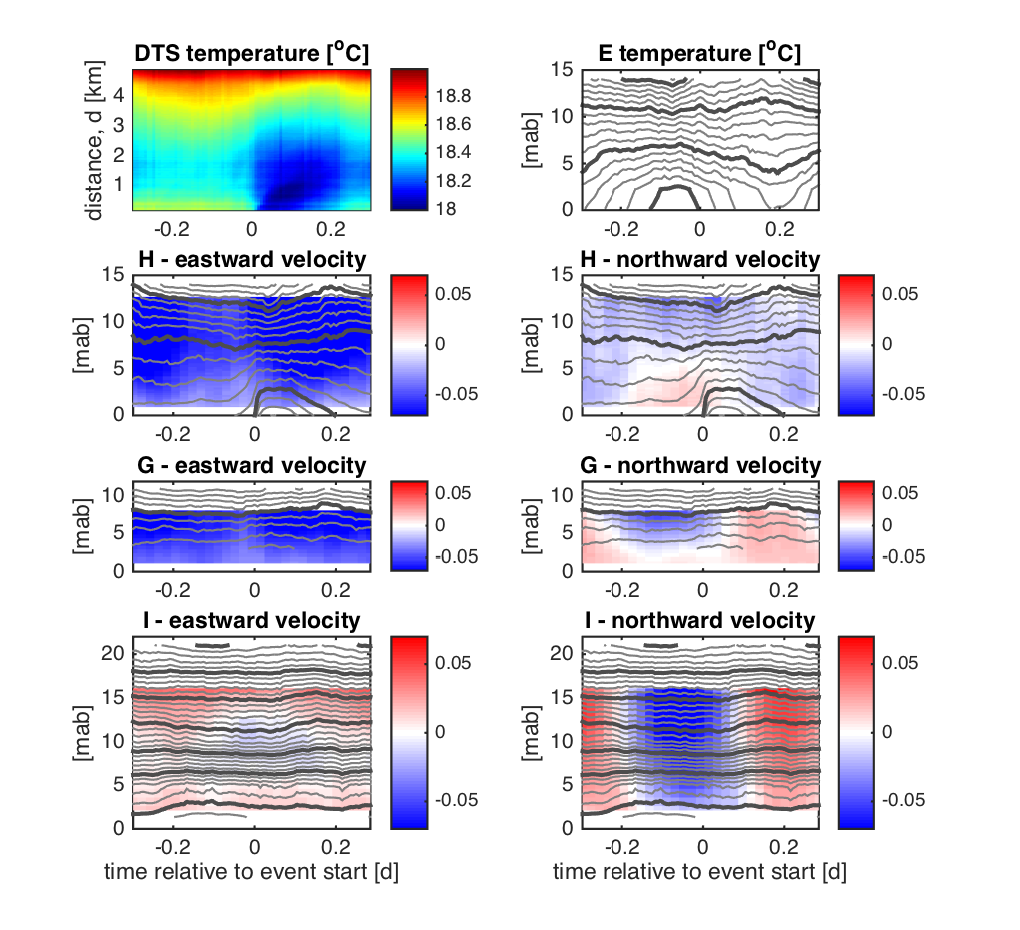
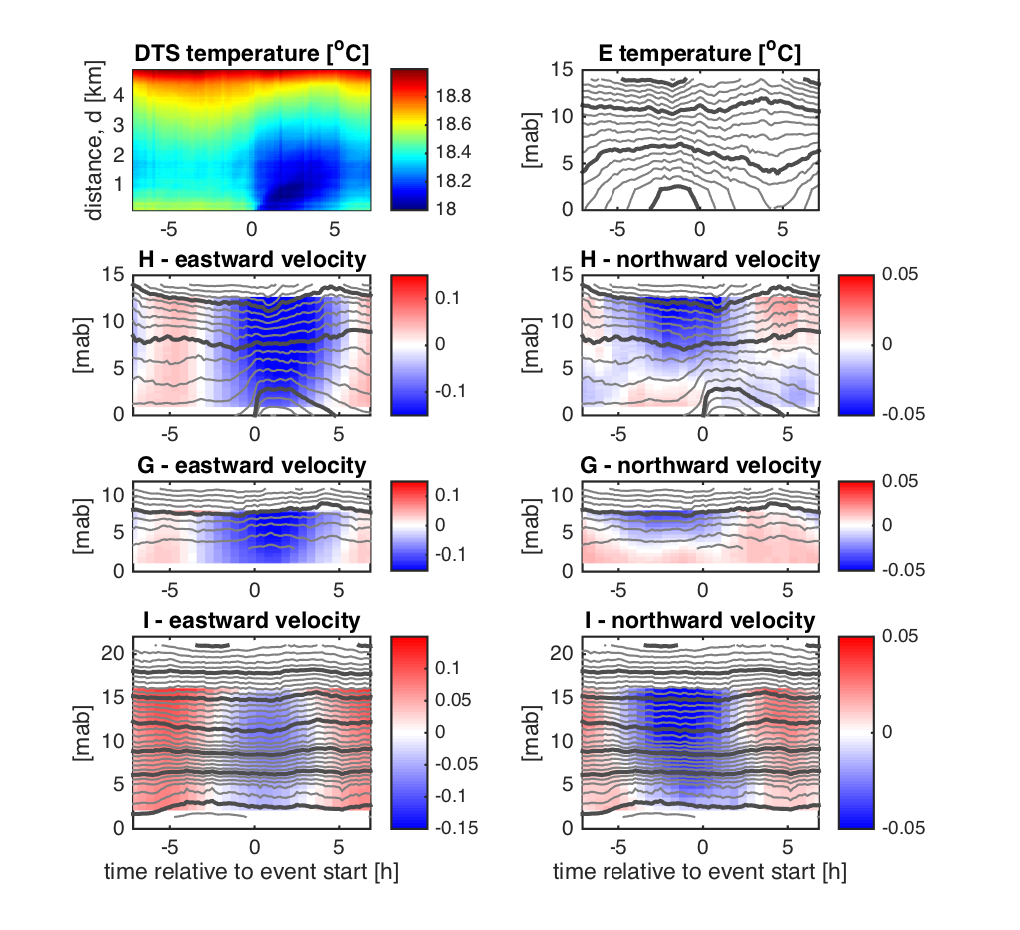
using full velocity with tides in H composite

diff --git a/analysis/dts_isle_plot_events_h_composite_paper.m b/analysis/dts_isle_plot_events_h_composite_paper.m
@@ -105,7 +105,7 @@ set(gcf, 'PaperSize', [7.0 7.0]);
 set(gcf, 'PaperPosition', [0 0 6.8 6.2])
 
 ax1 = subplot(15,2,[1:2:5])
-pcolor(datetime_events,distance/1000,squeeze(nanmean(tdts_events,3))')
+pcolor(datetime_events*24,distance/1000,squeeze(nanmean(tdts_events,3))')
 shading flat
 colormap(ax1,jet)
 colorbar
@@ -113,9 +113,9 @@ title('DTS temperature [^oC]')
 ylabel('distance, d [km]')
 
 subplot(15,2,[2:2:6])
-contour(datetime_events,15-zsE_isle,squeeze(nanmean(te_events,3))',[0:.1:100],'color',[0.5 0.5 0.5])
+contour(datetime_events*24,15-zsE_isle,squeeze(nanmean(te_events,3))',[0:.1:100],'color',[0.5 0.5 0.5])
 hold on
-contour(datetime_events,15-zsE_isle,squeeze(nanmean(te_events,3))',[0:.5:100],'color',[0.3 0.3 0.3],'linewidth',2)
+contour(datetime_events*24,15-zsE_isle,squeeze(nanmean(te_events,3))',[0:.5:100],'color',[0.3 0.3 0.3],'linewidth',2)
 title('E temperature [^oC]')
 cbar = colorbar;
 set(cbar,'visible','off')
@@ -124,44 +124,44 @@ ylim([0,15])
 
 
 subplot(15,2,[9:2:13])
-pcolorjw(ttime_events,H.zz,squeeze(nanmean(real(wh_detide_events(:,:,hidx)),3))')
+pcolorjw(ttime_events*24,H.zz,squeeze(nanmean(real(wh_events(:,:,hidx)),3))')
 %pcolorjw(ttime_events,H.zz,squeeze(nanmean(real(wh_events(:,:,hidx)),3))')
 shading flat
 colormap(redblue)
 caxiscen;
 hold on
-contour(datetime_events,15-zt_events,squeeze(nanmean(t_events(:,:,hidx),3))', ...
+contour(datetime_events*24,15-zt_events,squeeze(nanmean(t_events(:,:,hidx),3))', ...
             [0:.1:100],'color',[0.5 0.5 0.5])
-contour(datetime_events,15-zt_events,squeeze(nanmean(t_events(:,:,hidx),3))', ...
+contour(datetime_events*24,15-zt_events,squeeze(nanmean(t_events(:,:,hidx),3))', ...
             [0:.5:100],'color',[0.3 0.3 0.3],'linewidth',2)
 colorbar
 title('H - eastward velocity')
 ylim([0,15])
-caxis([-0.07,0.07])
+caxis([-0.15,0.15])
 ylabel('[mab]')
 
 subplot(15,2,[10:2:14])
-pcolorjw(ttime_events,H.zz,squeeze(nanmean(imag(wh_detide_events(:,:,hidx)),3))')
+pcolorjw(ttime_events*24,H.zz,squeeze(nanmean(imag(wh_events(:,:,hidx)),3))')
 %pcolorjw(ttime_events,H.zz,squeeze(nanmean(imag(wh_events(:,:,hidx)),3))')
 shading flat
 colormap(redblue)
 caxiscen;
 colorbar
 hold on
-contour(datetime_events,15-zt_events,squeeze(nanmean(t_events(:,:,hidx),3))', ...
+contour(datetime_events*24,15-zt_events,squeeze(nanmean(t_events(:,:,hidx),3))', ...
             [0:.1:100],'color',[0.5 0.5 0.5])
-contour(datetime_events,15-zt_events,squeeze(nanmean(t_events(:,:,hidx),3))', ...
+contour(datetime_events*24,15-zt_events,squeeze(nanmean(t_events(:,:,hidx),3))', ...
             [0:.5:100],'color',[0.3 0.3 0.3],'linewidth',2)
 title('H - northward velocity')
 ylim([0,15])
-caxis([-0.07,0.07])
+caxis([-0.05,0.05])
 ylabel('[mab]')
 
 %%% G velocity %%%
 
 zi = 1:15;
 subplot(15,2,[17:2:19])
-pcolorjw(mitime_events,G.M.z(zi),squeeze(nanmean(real(wg_detide_events(:,zi,:)),3))')
+pcolorjw(mitime_events*24,G.M.z(zi),squeeze(nanmean(real(wg_events(:,zi,:)),3))')
 %pcolorjw(mitime_events,G.M.z(zi),squeeze(nanmean(real(wg_events(:,zi,:)),3))')
 shading flat
 colormap(redblue)
@@ -170,16 +170,16 @@ colorbar
 title('G - eastward velocity')
 ylim([0,12])
 hold on
-contour(datetime_events,12-zsG_isle,squeeze(nanmean(tG_events,3))',[0:.1:100],'color',[0.5 0.5 0.5]), shading flat
-[c,h] = contour(datetime_events,12-zsG_isle,squeeze(nanmean(tG_events,3))',[0:.5:100],'color',[0.3 0.3 0.3],'linewidth',2);
+contour(datetime_events*24,12-zsG_isle,squeeze(nanmean(tG_events,3))',[0:.1:100],'color',[0.5 0.5 0.5]), shading flat
+[c,h] = contour(datetime_events*24,12-zsG_isle,squeeze(nanmean(tG_events,3))',[0:.5:100],'color',[0.3 0.3 0.3],'linewidth',2);
 hold off
-caxis([-0.07,0.07])
+caxis([-0.15,0.15])
 ylabel('[mab]')
 
 
 
 subplot(15,2,[18:2:20])
-pcolorjw(mitime_events,G.M.z(zi),squeeze(nanmean(imag(wg_detide_events(:,zi,:)),3))')
+pcolorjw(mitime_events*24,G.M.z(zi),squeeze(nanmean(imag(wg_events(:,zi,:)),3))')
 %pcolorjw(mitime_events,G.M.z(zi),squeeze(nanmean(imag(wg_events(:,zi,:)),3))')
 shading flat
 colormap(redblue)
@@ -188,34 +188,34 @@ colorbar
 title('G - northward velocity')
 ylim([0,12])
 hold on
-contour(datetime_events,12-zsG_isle,squeeze(nanmean(tG_events,3))',[0:.1:100],'color',[0.5 0.5 0.5]), shading flat
-[c,h] = contour(datetime_events,12-zsG_isle,squeeze(nanmean(tG_events,3))',[0:.5:100],'color',[0.3 0.3 0.3],'linewidth',2);
+contour(datetime_events*24,12-zsG_isle,squeeze(nanmean(tG_events,3))',[0:.1:100],'color',[0.5 0.5 0.5]), shading flat
+[c,h] = contour(datetime_events*24,12-zsG_isle,squeeze(nanmean(tG_events,3))',[0:.5:100],'color',[0.3 0.3 0.3],'linewidth',2);
 hold off
-caxis([-0.07,0.07])
+caxis([-0.05,0.05])
 ylabel('[mab]')
 
 
 zi = 1:15;
 subplot(15,2,[23:2:29])
-pcolorjw(mitime_events,I.M.z(zi),squeeze(nanmean(real(wi_detide_events(:,zi,:)),3))')
+pcolorjw(mitime_events*24,I.M.z(zi),squeeze(nanmean(real(wi_events(:,zi,:)),3))')
 %pcolorjw(mitime_events,I.M.z(zi),squeeze(nanmean(real(wi_events(:,zi,:)),3))')
 shading flat
 colormap(redblue)
 caxiscen;
 colorbar
-caxis([-0.07,0.07])
+caxis([-0.15,0.15])
 ylim([0,22])
 hold on 
-contour(datetime_events,22-zsI_isle,squeeze(nanmean(tI_events,3))',[0:.1:100],'color',[0.5 0.5 0.5]), shading flat
-contour(datetime_events,22-zsI_isle,squeeze(nanmean(tI_events,3))',[0:.5:100],'color',[0.3 0.3 0.3],'linewidth',2), shading flat
+contour(datetime_events*24,22-zsI_isle,squeeze(nanmean(tI_events,3))',[0:.1:100],'color',[0.5 0.5 0.5]), shading flat
+contour(datetime_events*24,22-zsI_isle,squeeze(nanmean(tI_events,3))',[0:.5:100],'color',[0.3 0.3 0.3],'linewidth',2), shading flat
 hold off
 title('I - eastward velocity')
-xlabel('time relative to event start [d]')
+xlabel('time relative to event start [h]')
 ylabel('[mab]')
 
 
 subplot(15,2,[24:2:30])
-pcolorjw(mitime_events,I.M.z(zi),squeeze(nanmean(imag(wi_detide_events(:,zi,:)),3))')
+pcolorjw(mitime_events*24,I.M.z(zi),squeeze(nanmean(imag(wi_events(:,zi,:)),3))')
 %pcolorjw(mitime_events,I.M.z(zi),squeeze(nanmean(imag(wi_events(:,zi,:)),3))')
 shading flat
 colormap(redblue)
@@ -223,12 +223,12 @@ caxiscen;
 colorbar
 ylim([0,22])
 hold on 
-contour(datetime_events,22-zsI_isle,squeeze(nanmean(tI_events,3))',[0:.1:100],'color',[0.5 0.5 0.5]), shading flat
-[c,h] = contour(datetime_events,22-zsI_isle,squeeze(nanmean(tI_events,3))',[0:.5:100],'color',[0.3 0.3 0.3],'linewidth',2), shading flat
+contour(datetime_events*24,22-zsI_isle,squeeze(nanmean(tI_events,3))',[0:.1:100],'color',[0.5 0.5 0.5]), shading flat
+[c,h] = contour(datetime_events*24,22-zsI_isle,squeeze(nanmean(tI_events,3))',[0:.5:100],'color',[0.3 0.3 0.3],'linewidth',2), shading flat
 hold off
 title('I - northward velocity')
-caxis([-0.07,0.07])
-xlabel('time relative to event start [d]')
+caxis([-0.05,0.05])
+xlabel('time relative to event start [h]')
 ylabel('[mab]')
 
 print -dpng figures_paper/fig_h_event_composite_allsites.png
